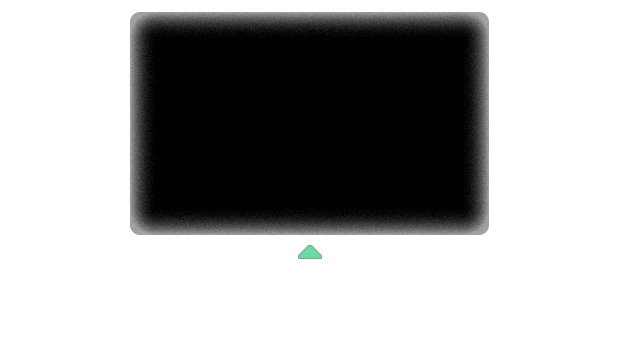
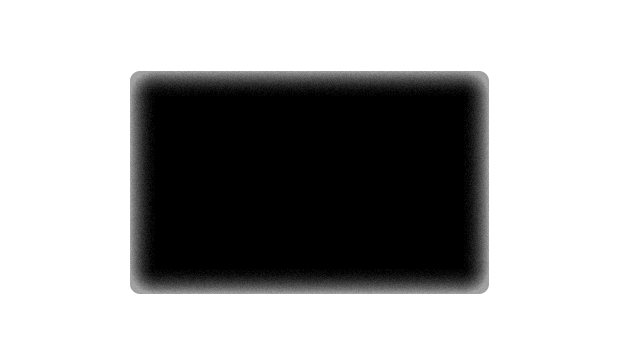
add image improvements

Changed region(s): [[0.1839, 0.6, 0.7968, 0.8571], [0.1839, 0.0286, 0.7968, 0.2571]]

diff --git a/src/PortfolioWebsite/PortfolioWebsite.BlazorUI/wwwroot/css/site.css b/src/PortfolioWebsite/PortfolioWebsite.BlazorUI/wwwroot/css/site.css
@@ -51,11 +51,11 @@ body {
     }
 }
 
-.media-overlay-text {
+.absolute-center {
     position: absolute;
-    top: 15%;
+    top: 50%;
     left: 50%;
-    transform: translateX(-50%);
+    transform: translate(-50%, -50%);
 }
 
 .empty-block {
